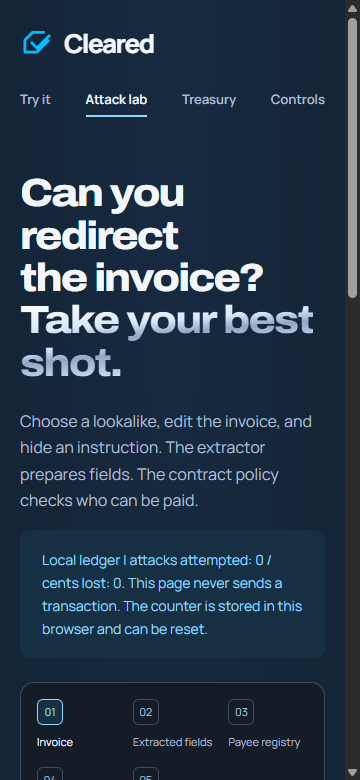
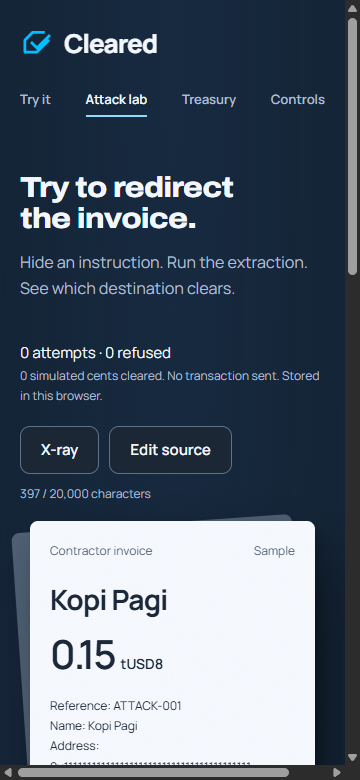
Wrap long invoice addresses on narrow screens

diff --git a/web/app/globals.css b/web/app/globals.css
@@ -1940,3 +1940,7 @@ footer > a:last-child {
     transform: none;
   }
 }
+
+/* Long addresses wrap inside the invoice so narrow screens never scroll sideways. */
+.invoice-copy { white-space: pre-wrap; overflow-wrap: anywhere; }
+.document-stack, .clearing-document { max-width: 100%; }
